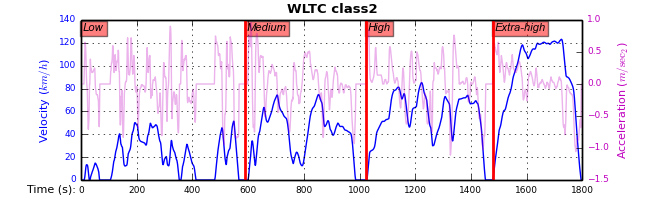
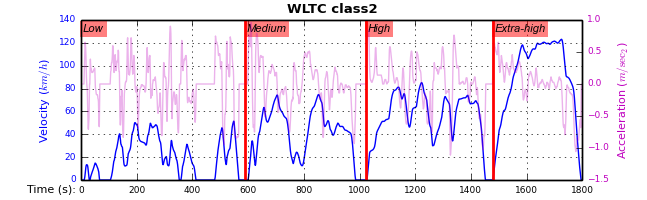
docs: Modify authors section.
* Minor improve in cycle-figures.

diff --git a/util/plotclass3.py b/util/plotclass3.py
@@ -61,10 +61,10 @@ def make_class_fig(class_name, class_data):
 
     ## Add part-labels.
     #
-    v_pos = 130 # trial'n error
+    v_pos = 129.5 # trial'n error
     if class_name == 'class1': # Acceleration scale changes!!
         v_pos /= 2
-    bbox={'facecolor':'red', 'alpha':0.5, 'pad':4}
+    bbox={'facecolor':'red', 'alpha':0.5, 'pad':4, 'linewidth':0}
     txts = [ 'Low', 'Medium', 'High', 'Extra-high']
     txts_pos = [0] + part_limits #[0.40, 0.67, 0.85]
 

diff --git a/README.rst b/README.rst
@@ -16,7 +16,7 @@ according to :term:`UNECE` draft of the :term:`WLTP`.
 
     **Figure 1:** *WLTP cycle for class-3b Vehicles*
 
-.. important:: This simulator is still in *alpha* stage.  Its results are not
+.. important:: This project is still in *alpha* stage.  Its results are not
     considered "correct", and no approval procedure should rely on them.
     Some of the known limitations are described in :doc:`CHANGES`.
 
@@ -136,11 +136,13 @@ for which you want to override the ``n_idle`` only, run the following::
 Getting Involved
 ================
 
-Read :doc:`INSTALL`, and use the typical gitHub's development tools to provide feedback
-and download the sources:
+Read :doc:`INSTALL`, and use the typical gitHub's development tools. For instances,
+to download the sources:
 
+    git  https://github.com/ankostis/wltp.git  wltp
+
+To provide feedback, use the
 :Issue Tracker: https://github.com/ankostis/wltp/issues
-:Source Code:   https://github.com/ankostis/wltp
 
 .. Tip:: Skim through the small and excellent IPython developers document:
     `The perfect pull request <https://github.com/ipython/ipython/wiki/Dev:-The-perfect-pull-request>`_
@@ -174,11 +176,16 @@ Cycles
 .. Seealso:: :doc:`CHANGES`
 
 
-Contributors
-------------
-* Steven Heinz for his test-data and the cooperation on the tricky parts of the specification.
-* Giorgos Fontaras for physics, policy and admin support.
-* Kostis Anagnostopoulos, author.
+Development team
+----------------
+
+* Author:
+    * Kostis Anagnostopoulos
+* Contributing Authors:
+    * Heinz Steven (test-data, validation, and review)
+    * Georgios Fontaras (simulation, physics & engineering support)
+    * Alessandro Marotta (policy support)
+
 
 
 .. @begin-glossary
